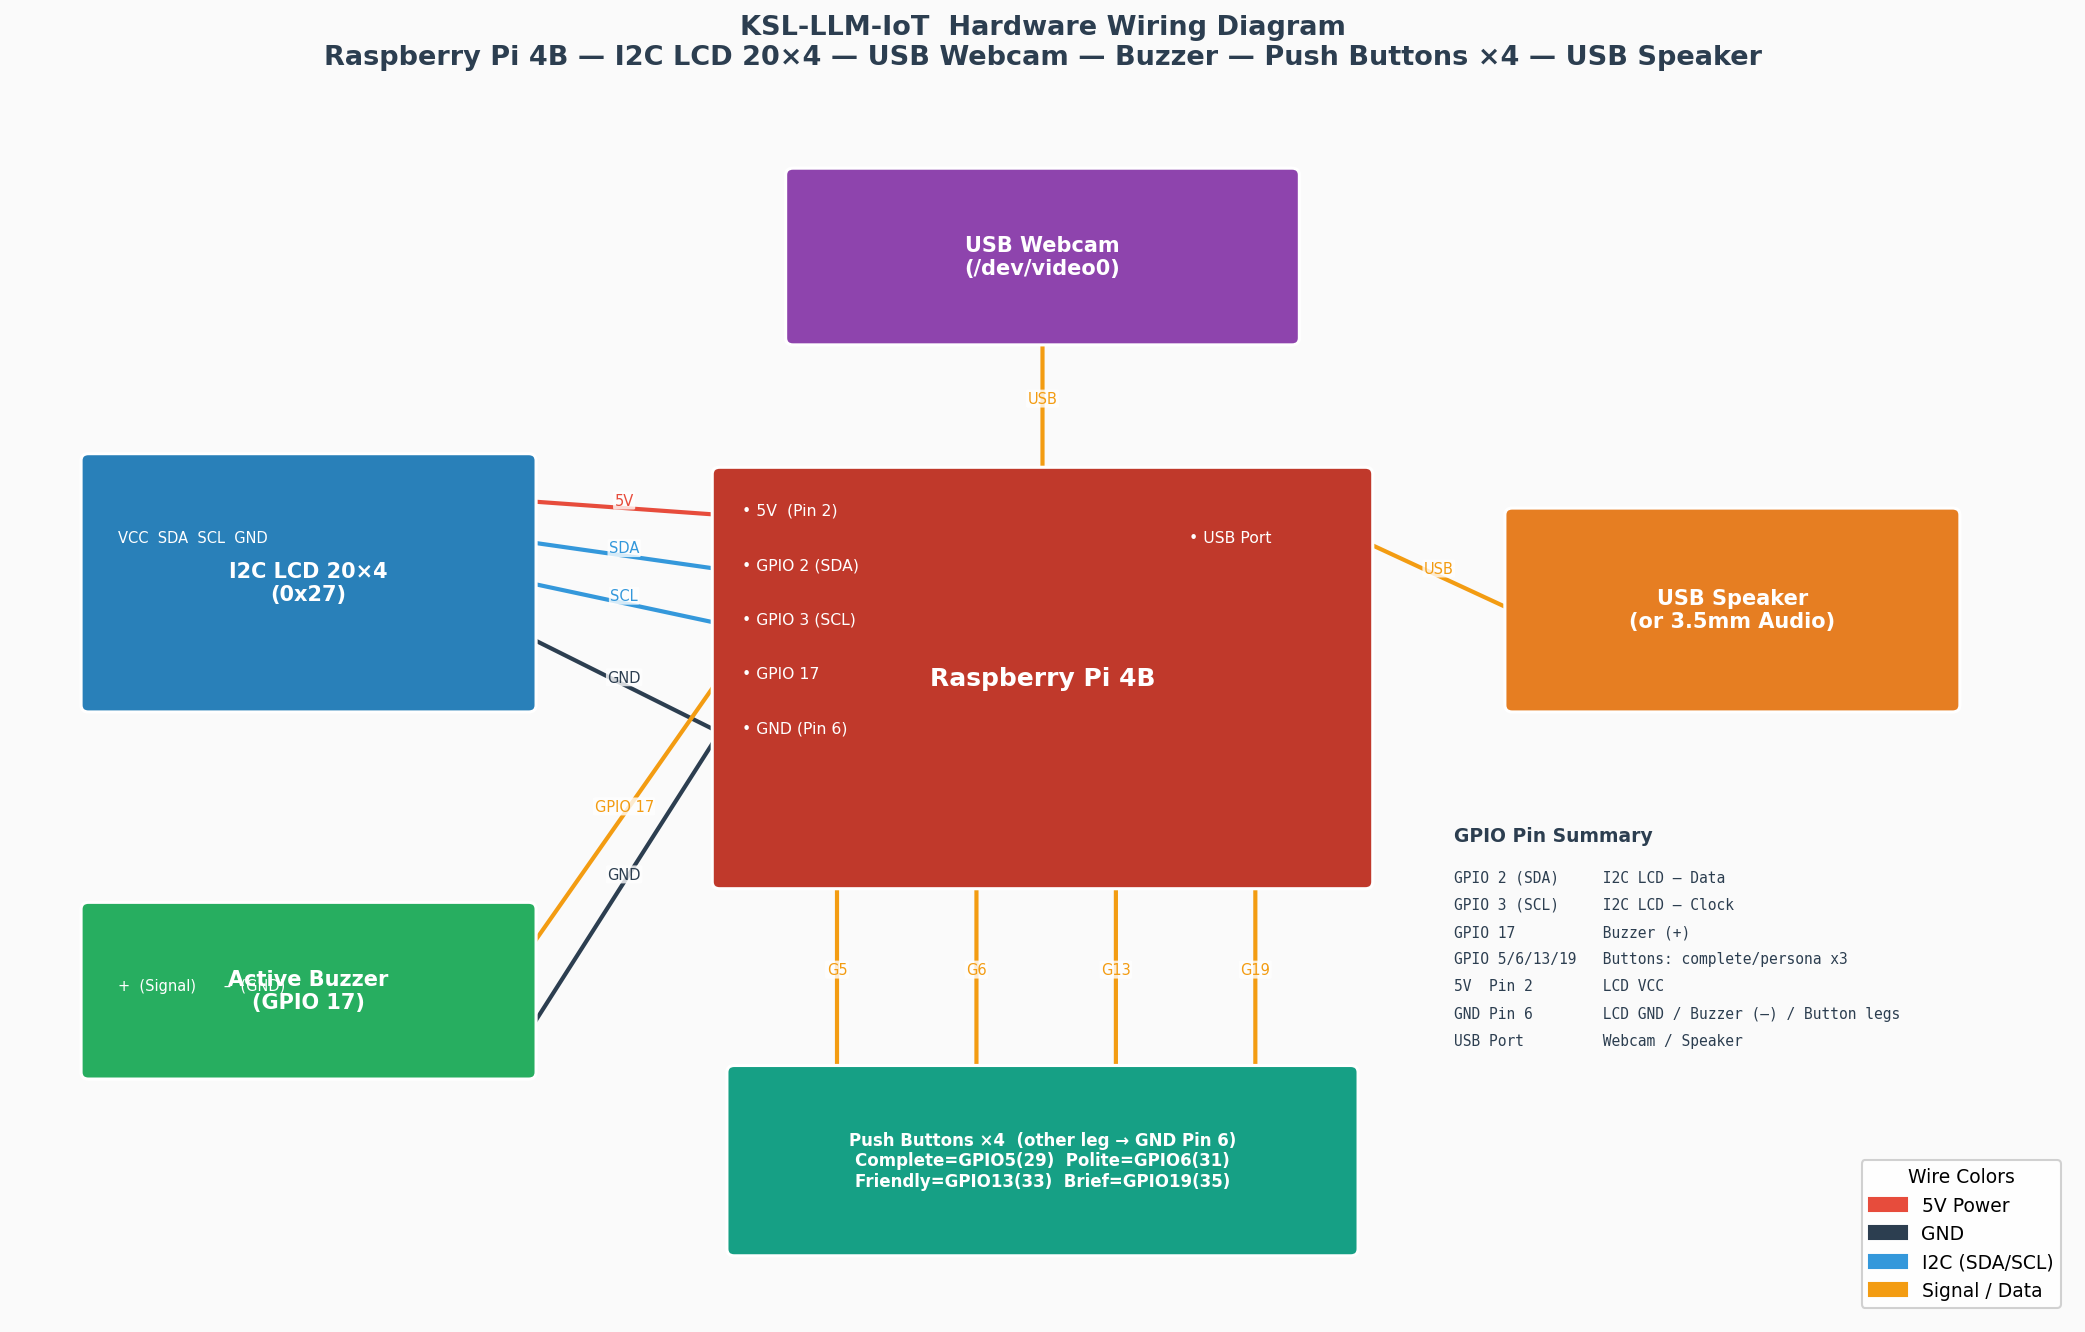
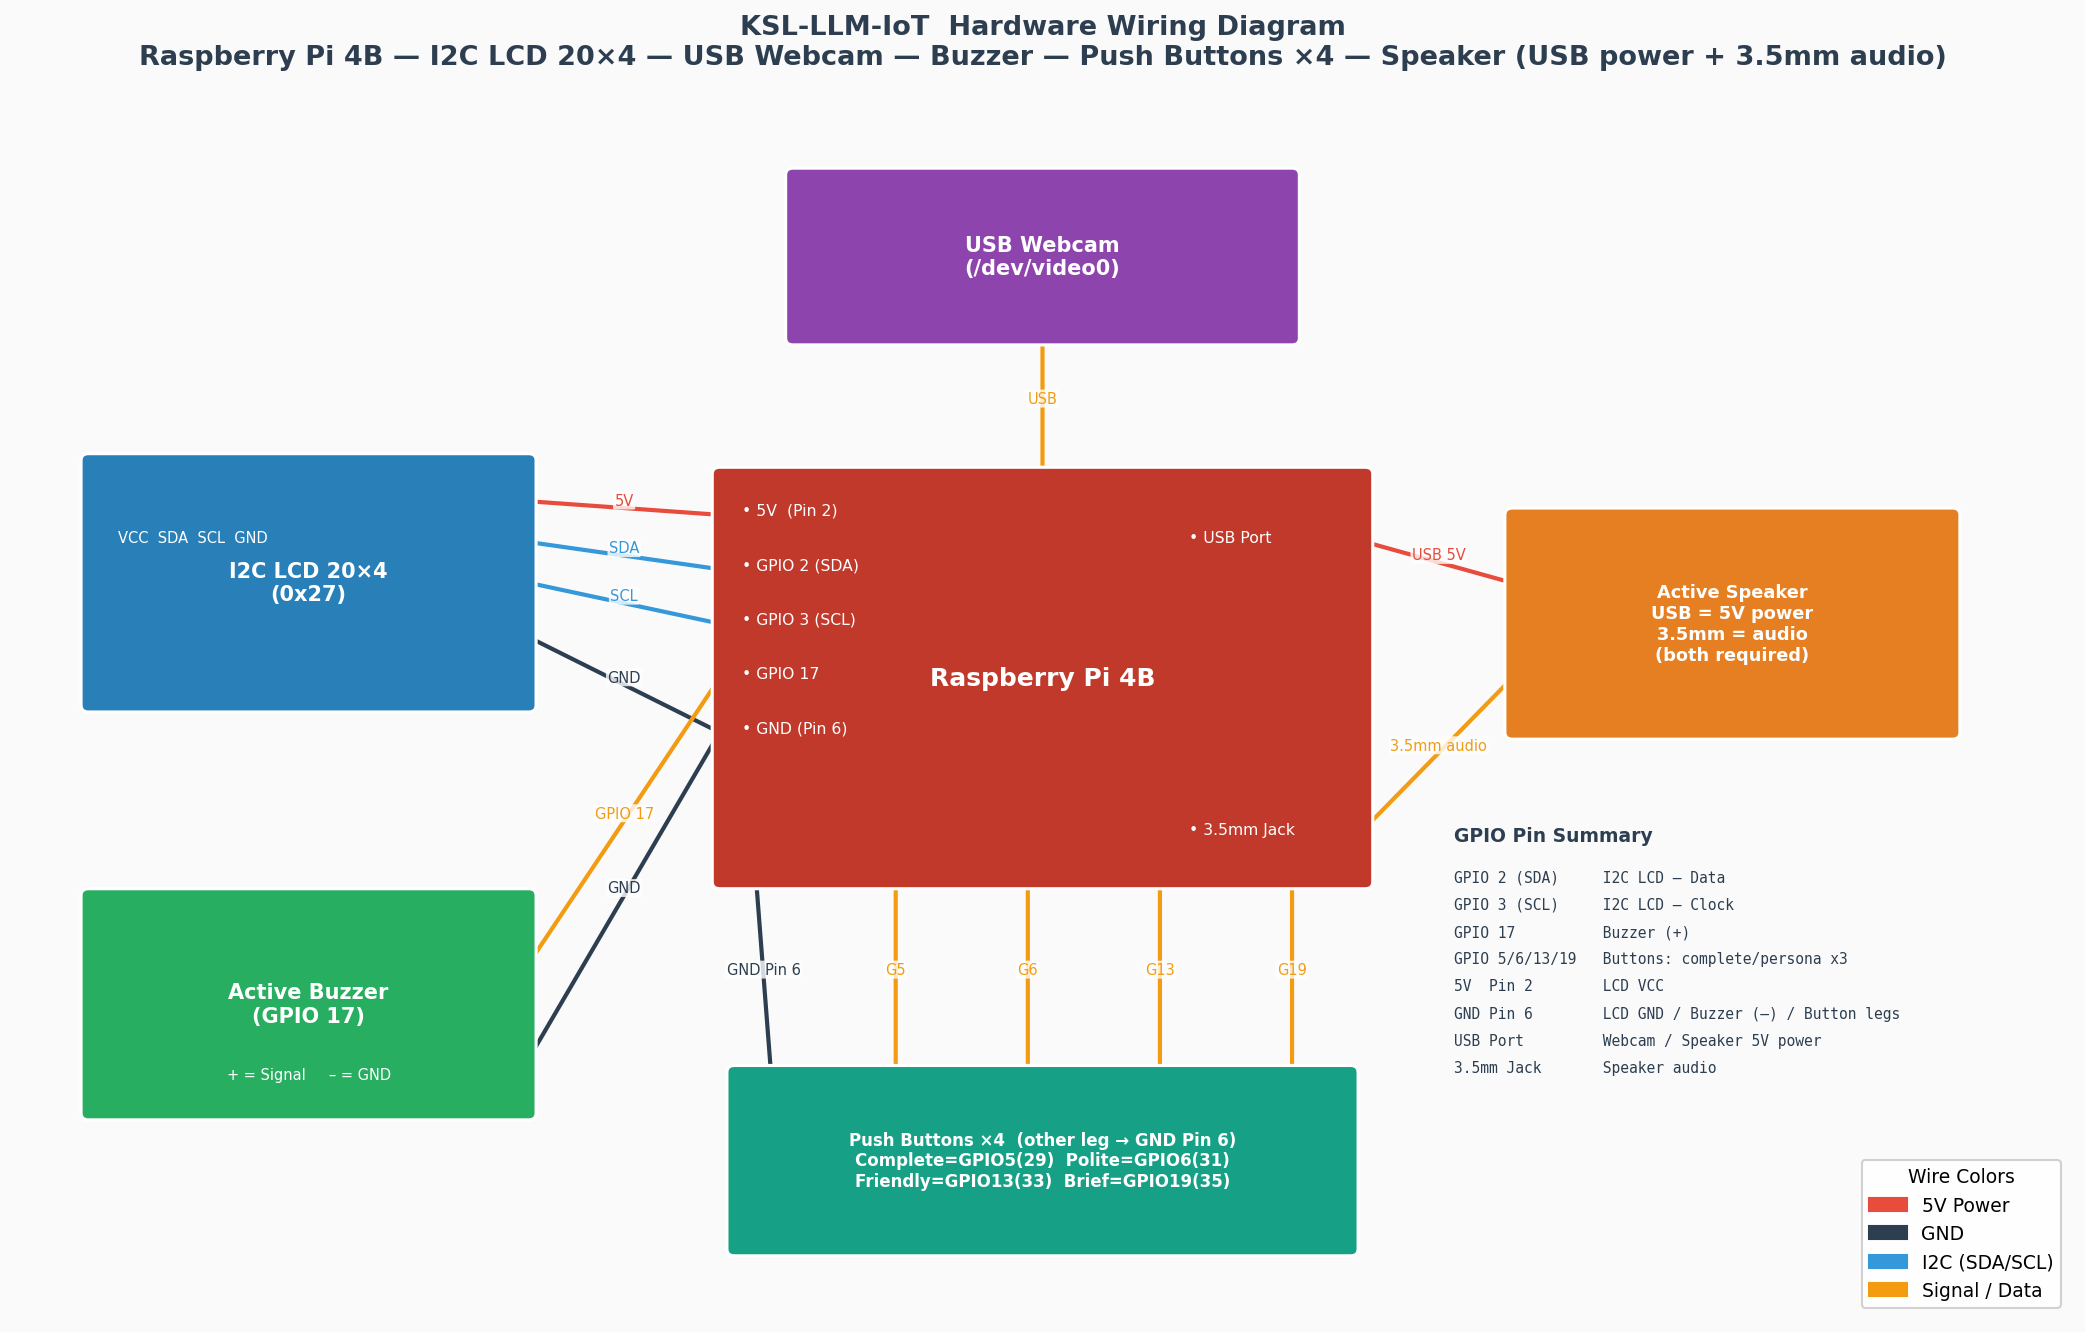
fix: 배선도 스피커 이중연결·부저 겹침·버튼 GND 보정 + 문서 동기화
- 스피커: USB 전원 + 3.5mm 오디오 둘 다 필요(USB만/3.5mm만 무음, 실측). 박스 라벨·선 2개로 표기
- 부저: 중앙 라벨과 +/- 텍스트 y좌표 겹침 → 박스 높이↑·하단 분리
- 버튼: 공통 GND(Pin 6) 선 누락 → 추가, GPIO 신호선과 간격 조정
- README 하드웨어/결선표, USER_MANUAL §1.1·§9 변경이력 동기화

Claude-Session: https://claude.ai/code/session_01UtXsoMz2nPhaGvnm2zYY4C

diff --git a/docs/generate_wiring_diagram.py b/docs/generate_wiring_diagram.py
@@ -62,7 +62,7 @@ def main():
     ax.axis('off')
     ax.set_title("KSL-LLM-IoT  Hardware Wiring Diagram\n"
                  "Raspberry Pi 4B — I2C LCD 20×4 — USB Webcam — Buzzer — "
-                 "Push Buttons ×4 — USB Speaker",
+                 "Push Buttons ×4 — Speaker (USB power + 3.5mm audio)",
                  fontsize=13, fontweight='bold', pad=14, color='#2c3e50')
 
     # ── Raspberry Pi 4B (중앙) ───────────────────────────
@@ -77,6 +77,7 @@ def main():
         ("5V  (Pin 2)",  rpi_x + 0.15, rpi_y + 2.7),
         ("GND (Pin 6)",  rpi_x + 0.15, rpi_y + 1.1),
         ("USB Port",     rpi_x + rpi_w - 1.2, rpi_y + 2.5),
+        ("3.5mm Jack",   rpi_x + rpi_w - 1.2, rpi_y + 0.35),
     ]
     for text, px, py in pins:
         ax.text(px, py, f"• {text}", fontsize=7.5, color='white', zorder=5)
@@ -98,14 +99,15 @@ def main():
               C_WIRE_GND, "GND")
 
     # ── 능동 부저 (왼쪽 하단) ───────────────────────────
-    bz_x, bz_y = 0.5, 1.8
-    draw_box(ax, bz_x, bz_y, 3.0, 1.2, "Active Buzzer\n(GPIO 17)", C_BUZZ, fontsize=10)
-    ax.text(bz_x + 0.2, bz_y + 0.6, "+  (Signal)      –  (GND)",
-            fontsize=7, color='white', zorder=5)
+    bz_x, bz_y = 0.5, 1.5
+    bz_w, bz_h = 3.0, 1.6
+    draw_box(ax, bz_x, bz_y, bz_w, bz_h, "Active Buzzer\n(GPIO 17)", C_BUZZ, fontsize=10)
+    ax.text(bz_x + bz_w / 2, bz_y + 0.28, "+ = Signal     – = GND",
+            fontsize=7, color='white', ha='center', va='center', zorder=5)
 
-    draw_wire(ax, bz_x + 3.0, bz_y + 0.9, rpi_x, rpi_y + 1.5,
+    draw_wire(ax, bz_x + bz_w, bz_y + 1.1, rpi_x, rpi_y + 1.5,
               C_WIRE_SIG, "GPIO 17")
-    draw_wire(ax, bz_x + 3.0, bz_y + 0.3, rpi_x, rpi_y + 1.1,
+    draw_wire(ax, bz_x + bz_w, bz_y + 0.4, rpi_x, rpi_y + 1.1,
               C_WIRE_GND, "GND")
 
     # ── 푸시 버튼 ×4 (하단 중앙) ─────────────────────────
@@ -118,8 +120,11 @@ def main():
              "Friendly=GPIO13(33)  Brief=GPIO19(35)",
              C_BTN, fontsize=8)
     for i, gpio_label in enumerate(["G5", "G6", "G13", "G19"]):
-        wx = btn_x + 0.7 + i * 0.95
+        wx = btn_x + 1.1 + i * 0.9
         draw_wire(ax, wx, btn_y + 1.3, wx, rpi_y, C_WIRE_SIG, gpio_label)
+    # 공통 GND — 4개 버튼의 반대쪽 다리가 모두 GND(Pin 6)로 연결되어야 동작
+    draw_wire(ax, btn_x + 0.25, btn_y + 1.3, rpi_x + 0.25, rpi_y,
+              C_WIRE_GND, "GND Pin 6")
 
     # ── USB 웹캠 (상단) ──────────────────────────────────
     cam_x, cam_y = 5.3, 7.2
@@ -127,11 +132,18 @@ def main():
     draw_wire(ax, cam_x + 1.7, cam_y, rpi_x + rpi_w / 2, rpi_y + rpi_h,
               C_WIRE_SIG, "USB")
 
-    # ── USB Speaker (오른쪽) ─────────────────────────────
-    spk_x, spk_y = 10.2, 4.5
-    draw_box(ax, spk_x, spk_y, 3.0, 1.4, "USB Speaker\n(or 3.5mm Audio)", C_SPK, fontsize=10)
-    draw_wire(ax, spk_x, spk_y + 0.7, rpi_x + rpi_w, rpi_y + 2.5,
-              C_WIRE_SIG, "USB")
+    # ── Speaker (오른쪽) — USB 5V 전원 + 3.5mm 오디오 (둘 다 필요) ──
+    spk_x, spk_y = 10.2, 4.3
+    spk_w, spk_h = 3.0, 1.6
+    draw_box(ax, spk_x, spk_y, spk_w, spk_h,
+             "Active Speaker\nUSB = 5V power\n3.5mm = audio\n(both required)",
+             C_SPK, fontsize=8.5)
+    # USB 전원선 → RPi USB 포트
+    draw_wire(ax, spk_x, spk_y + 1.1, rpi_x + rpi_w, rpi_y + 2.5,
+              C_WIRE_5V, "USB 5V")
+    # 3.5mm 오디오선 → RPi 3.5mm 잭
+    draw_wire(ax, spk_x, spk_y + 0.4, rpi_x + rpi_w, rpi_y + 0.4,
+              C_WIRE_SIG, "3.5mm audio")
 
     # ── 범례 ────────────────────────────────────────────
     legend_items = [
@@ -154,7 +166,8 @@ def main():
         ("GPIO 5/6/13/19", "Buttons: complete/persona x3"),
         ("5V  Pin 2",    "LCD VCC"),
         ("GND Pin 6",    "LCD GND / Buzzer (–) / Button legs"),
-        ("USB Port",     "Webcam / Speaker"),
+        ("USB Port",     "Webcam / Speaker 5V power"),
+        ("3.5mm Jack",   "Speaker audio"),
     ]
     for i, (pin, desc) in enumerate(rows):
         y_pos = table_y + 1.7 - i * 0.2

diff --git a/USER_MANUAL.md b/USER_MANUAL.md
@@ -40,7 +40,7 @@
 | I2C LCD | 20×4, 주소 `0x27` 기본 | `LCD_I2C_ADDRESS` 환경변수로 변경 가능 |
 | 부저 | Active 부저 | GPIO17(BCM) 기본 — `BUZZER_PIN` |
 | 푸시 버튼 ×4 | 모멘터리 택트 스위치 | 문장 완료 GPIO5(물리 29) / 정중 GPIO6(31) / 친근 GPIO13(33) / 간단 GPIO19(35). 각 버튼은 핀과 GND(물리 6) 사이 연결 — 내부 풀업, 외부 저항 불필요 |
-| 스피커 | 3.5mm 잭 또는 USB | TTS 출력용 |
+| 스피커 | USB-오디오형: USB만 · 증폭(3.5mm)형: 3.5mm(오디오)+USB/외부(전원) | TTS 출력용 |
 | microSD | 32GB 이상 (Class 10) | OS + 모델 + 데이터 |
 | 전원 | 5V/3A USB-C | 카메라+스피커 동시 사용 시 필수 |
 
@@ -323,6 +323,7 @@ PuTTY → Window → Translation → "Remote character set"을 `UTF-8`로 설정
 
 | 날짜 | 내용 |
 |------|------|
+| 2026-06-19 | 결선도(§1.1) 갱신 — 증폭 스피커는 **USB(전원)+3.5mm(오디오) 둘 다 연결**해야 동작(USB만/3.5mm만으로는 무음, 실측 확인). 부저 라벨 겹침·버튼 공통 GND 선 표기 보정 |
 | 2026-06-18 | 무동작 자동 문장화 기본값 `SILENCE_TRIGGER_SEC=3.0`으로 변경(§2.1·§3.2) — 완료 버튼과 병행(침묵 자동 발화). 버튼 전용을 원하면 `.env`에서 `0`. RPi 설치 절차를 `uv venv --python 3.11` 기준으로 통일(§2) |
 | 2026-06-12 | 결선도 갱신(§1.1) — 카메라를 USB 웹캠 기준으로 표기, 버튼 GND를 물리 6으로 정정(실측) |
 | 2026-06-12 | 중복 인식 필터 1.5→3.0초, `.env` `DUPLICATE_FILTER_SEC`로 조정 가능(§2.1·§3.2) — 동작 유지 시 같은 단어 반복 누적 방지 |

diff --git a/README.md b/README.md
@@ -107,7 +107,7 @@ The word list matches AI Hub sign-language dataset headwords exactly (revised 20
 | I2C LCD | 20×4, default address `0x27` | Address override via `LCD_I2C_ADDRESS` in `.env` |
 | Active Buzzer | 3.3V or 5V active type | Pin override via `BUZZER_PIN` in `.env` |
 | Push Buttons ×4 | Momentary tactile switch | Sentence-complete + persona ×3, internal pull-up (no external resistor) |
-| Speaker | 3.5mm jack or USB audio | TTS playback |
+| Speaker | USB-audio type: USB only · Active 3.5mm type: 3.5mm (audio) + USB/external 5V (power) | TTS playback |
 | microSD | 32GB+, Class 10 | OS + dataset + model |
 | Power | 5V / 3A USB-C | Required when camera + speaker run concurrently |
 
@@ -126,7 +126,8 @@ The word list matches AI Hub sign-language dataset headwords exactly (revised 20
 | Persona: friendly | **GPIO13** (`BUTTON_PERSONA_FRIENDLY_PIN`) | Pin 33 | Button leg A (leg B → GND Pin 6) |
 | Persona: brief | **GPIO19** (`BUTTON_PERSONA_BRIEF_PIN`) | Pin 35 | Button leg A (leg B → GND Pin 6) |
 | Camera | — | USB port | USB webcam (`/dev/video0`; CSI Pi Camera also auto-detected) |
-| Audio | — | 3.5mm jack or USB | Speaker |
+| Audio (3.5mm) | — | 3.5mm jack | Active speaker audio in |
+| Audio power | — | USB port / external | Active speaker 5V power (USB-audio speaker: USB only) |
 
 Wiring diagram: [`docs/wiring_diagram.png`](docs/wiring_diagram.png) (regenerable with `python docs/generate_wiring_diagram.py`).
 
